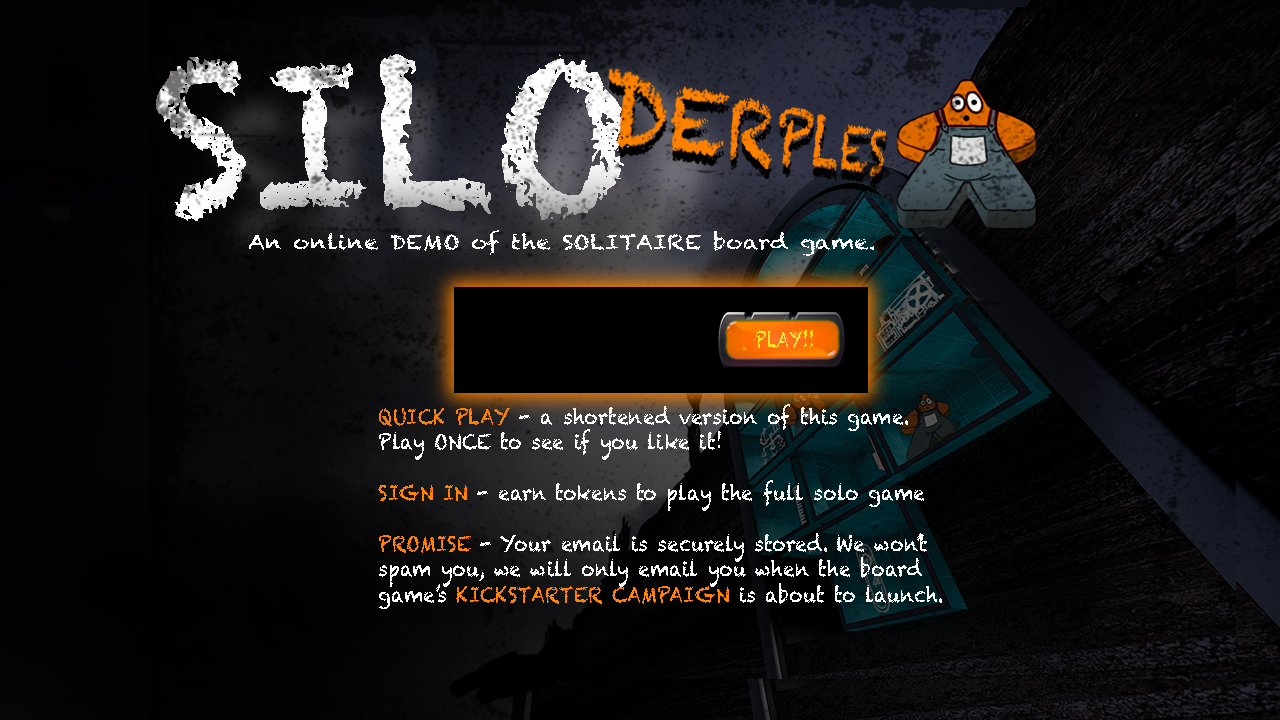
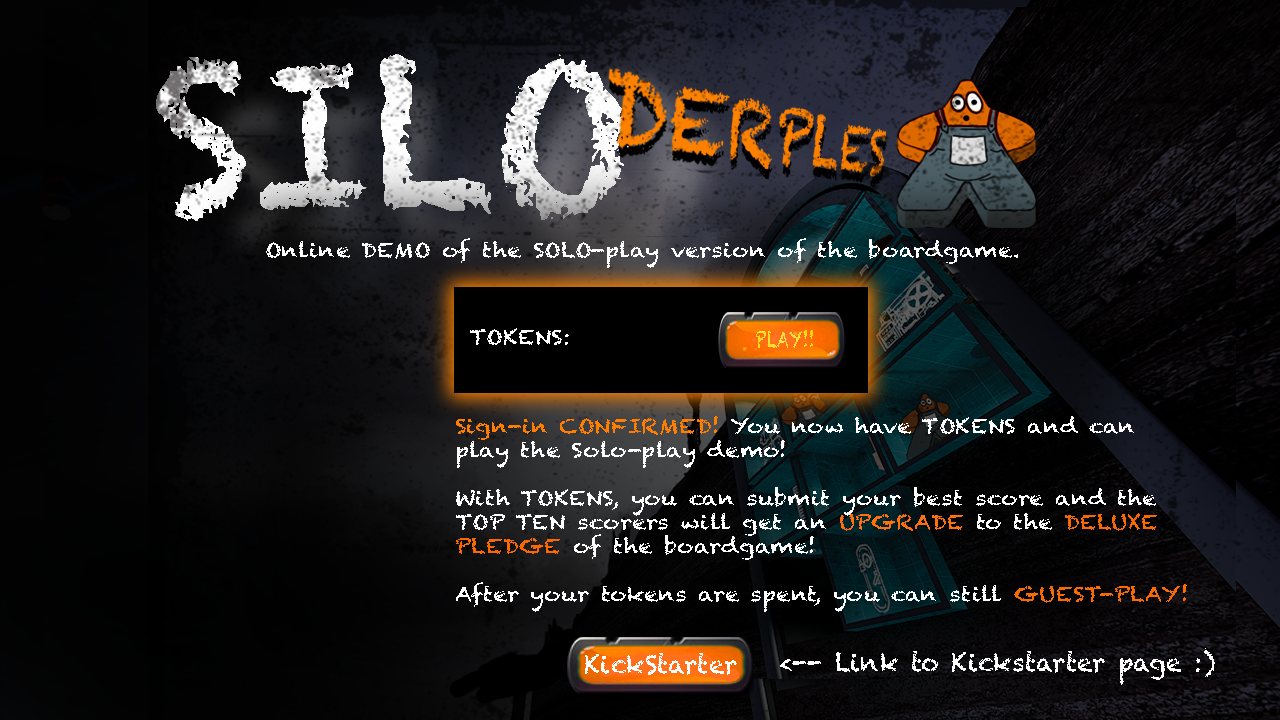
add the loading page and update the main page

diff --git a/style.css b/style.css
@@ -690,7 +690,7 @@ textarea {
 .canvas-app-canvas {
   background-repeat: no-repeat;
   background-position: center center;
-  background-image: url("titlePage.png");
+  background-image: url("titlePage_Loading.png");
 }
 
 /* Notyf notification styling */
